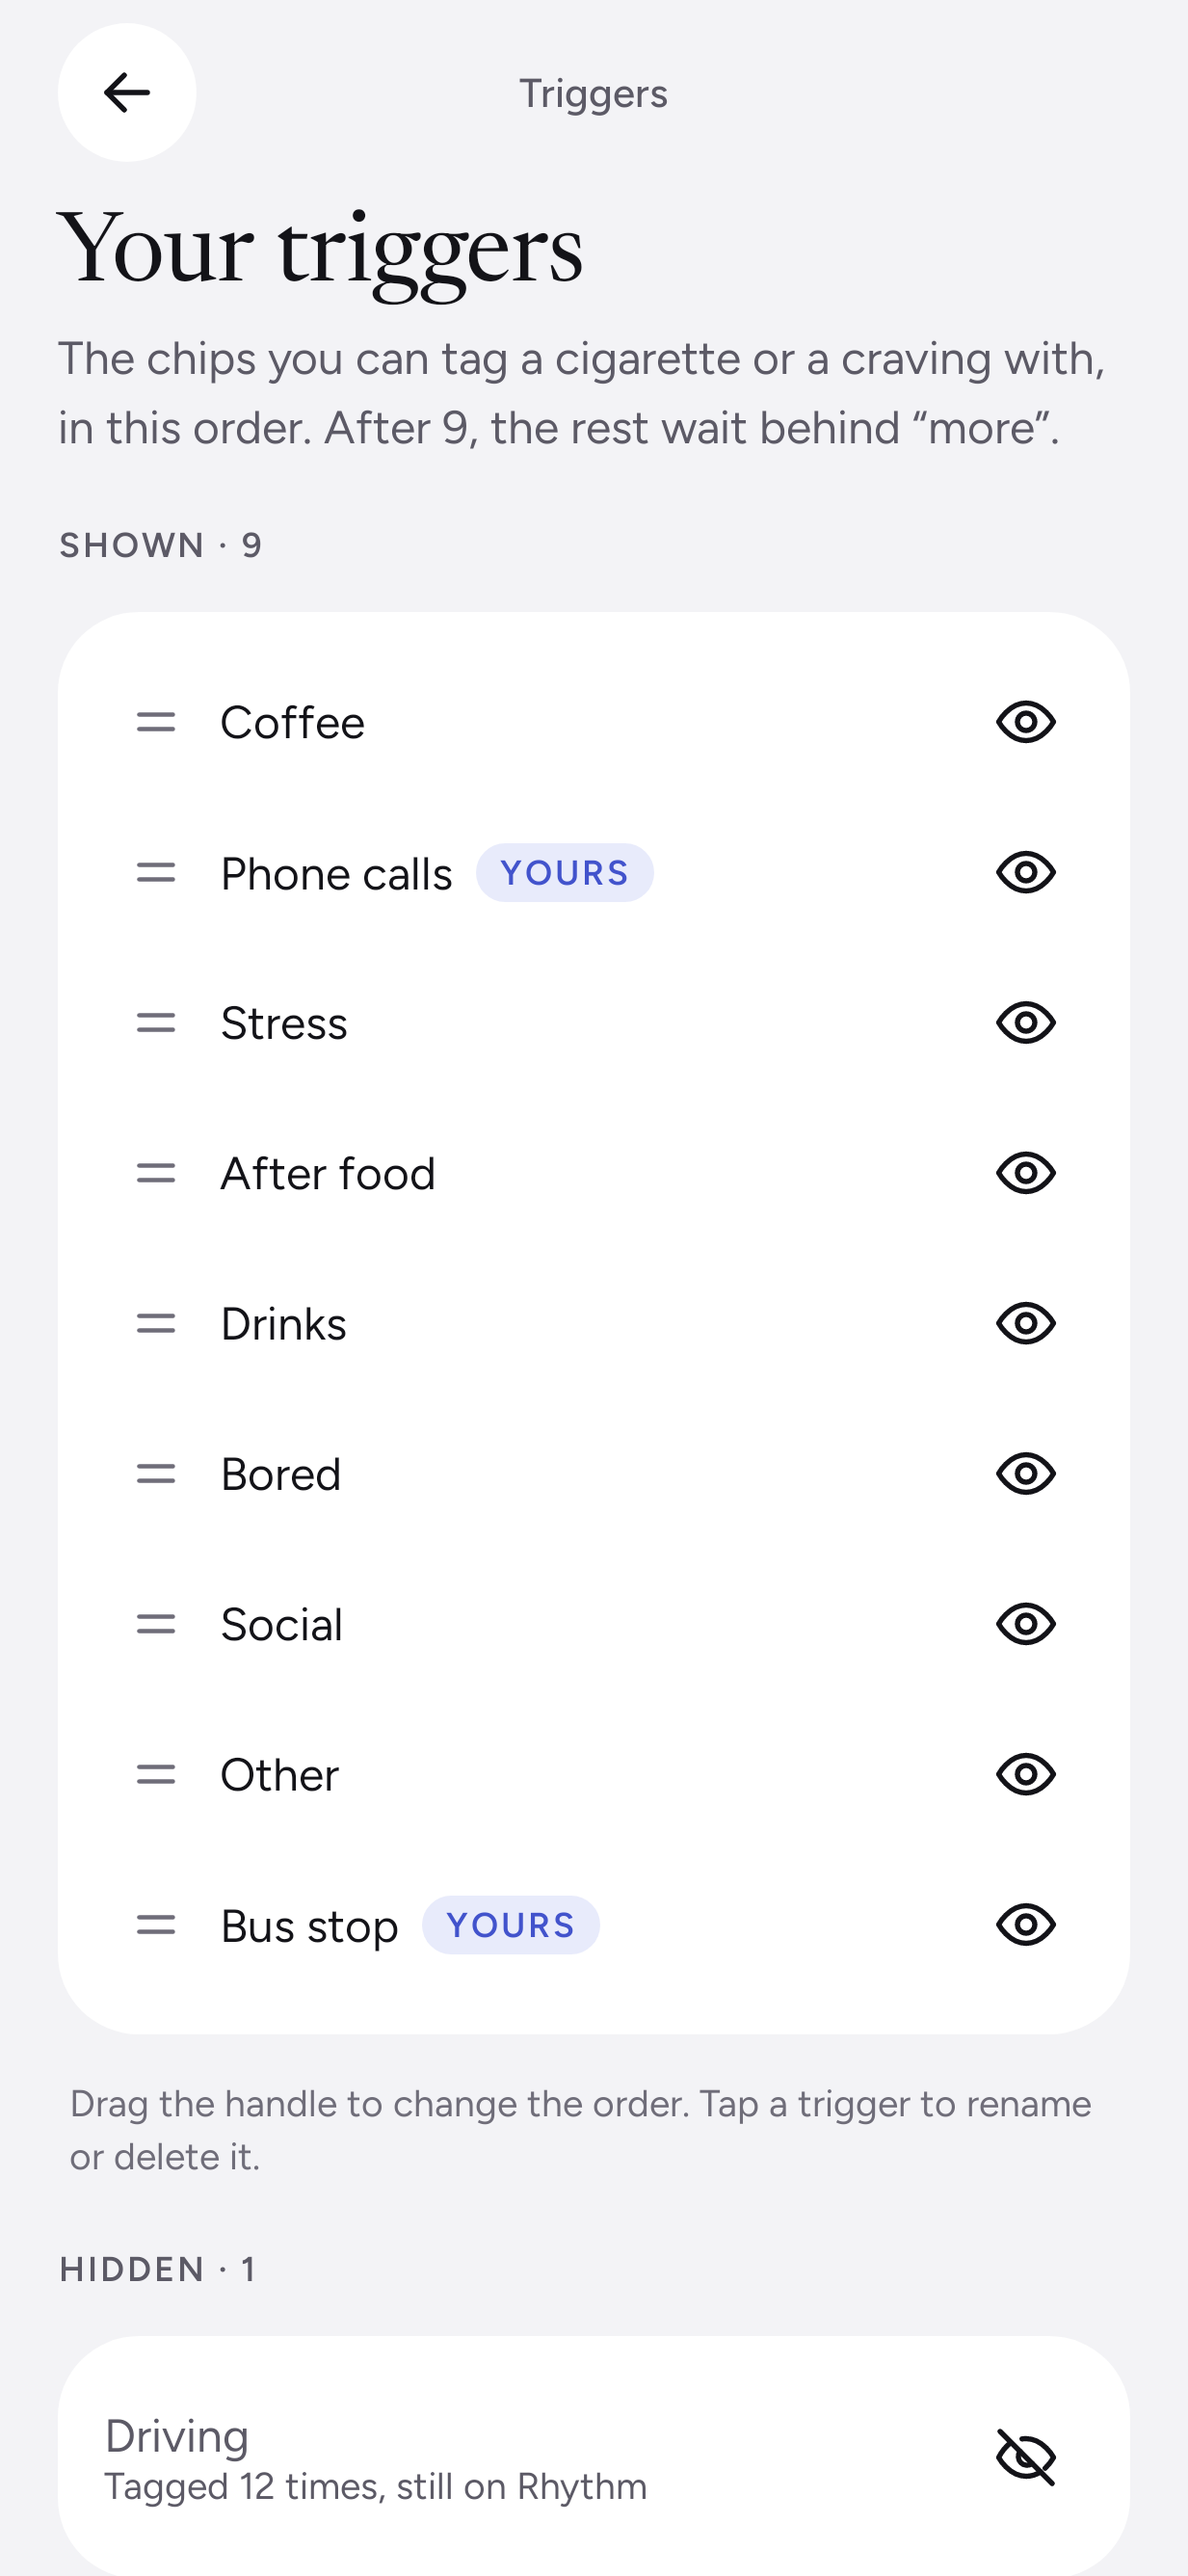
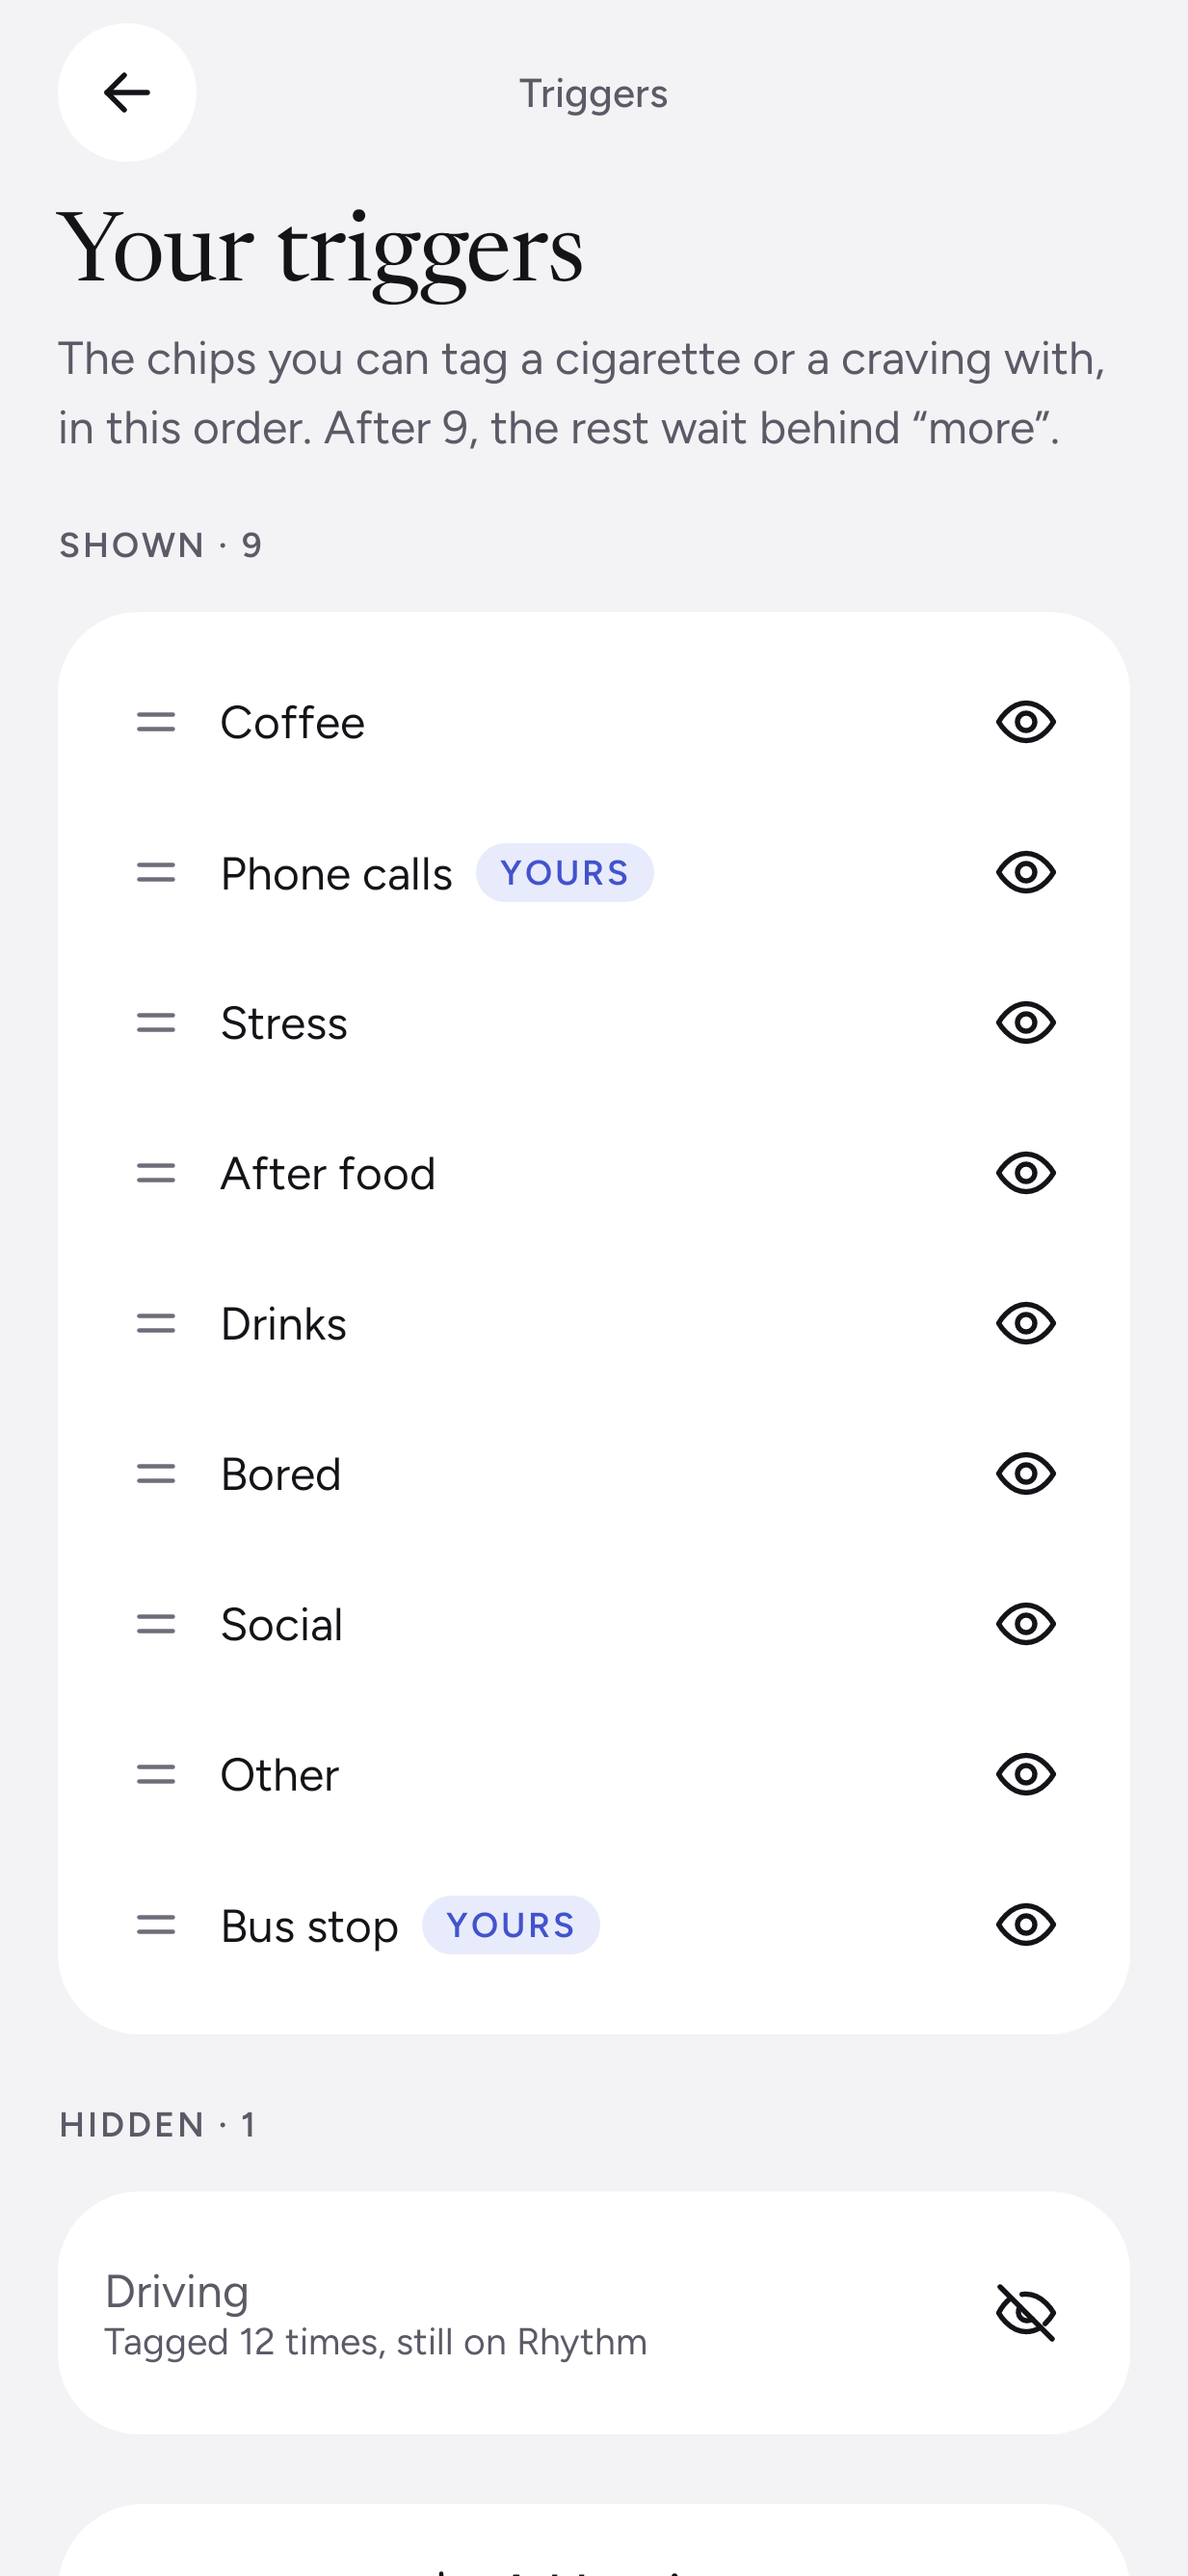
Settings: drop the captions under the Triggers card and the triggers list
Claude-Session: https://claude.ai/code/session_018i9YmtPViAYyBEGPqNTxhS

diff --git a/app/src/main/java/app/exhale/ui/screens/SettingsScreen.kt b/app/src/main/java/app/exhale/ui/screens/SettingsScreen.kt
@@ -272,7 +272,6 @@ private fun SettingsMain(
                     sub = shownTriggers.joinToString(", ") { it.label }.ifEmpty { "None shown" },
                 )
             }
-            Footnote("The chips you can tag a cigarette or a craving with.")
 
             Overline("Money", Modifier.paddingTop())
             ExCard(padding = ExSpace.sm) {

diff --git a/app/src/main/java/app/exhale/ui/screens/TriggerSettings.kt b/app/src/main/java/app/exhale/ui/screens/TriggerSettings.kt
@@ -86,7 +86,6 @@ internal fun TriggersPage(
                     )
                 }
             }
-            Footnote("Drag the handle to change the order. Tap a trigger to rename or delete it.")
         }
         if (hidden.isNotEmpty()) {
             Overline("Hidden · ${hidden.size}", Modifier.padding(top = ExSpace.xs))

diff --git a/docs/SPEC.md b/docs/SPEC.md
@@ -301,8 +301,7 @@ Edits everything set during onboarding; keeps the original plan start. Sections,
   caption shows the plan as counted on screen: "This week 10 a day, next week 9." ("Holding at 14 a
   day." for Hold steady), plus "That start is above your usual 16." when the start is above Before Exhale.
 - **Triggers**, one card: **Your triggers** with how many are shown ("9 shown") and their names on a
-  second line cut short with "…", opening the Triggers screen (§3.11). Caption: "The chips you can tag a
-  cigarette or a craving with."
+  second line cut short with "…", opening the Triggers screen (§3.11).
 - **Money**, one card: **A pack** ("20 for 10.00 $") and **Saving for** (the amount on the right, the
   goal name on a second line that is cut short when long, so the amount always shows whole). Each opens
   its own screen.
@@ -362,8 +361,7 @@ People can name their own triggers and shape the list. Rules are in §4 Triggers
   was hidden).
 - **Settings → Triggers** (applies at once, no Save): "Your triggers", "Shown · 9" in a card where
   each row has a drag handle (drag to reorder; screen readers get Move up / Move down), the name, a
-  "Yours" sky badge on the user's own, and an eye that hides it. "Drag the handle to change the order.
-  Tap a trigger to rename or delete it." Then "Hidden · 1" with dimmed rows ("Tagged 12 times, still on
+  "Yours" sky badge on the user's own, and an eye that hides it. Then "Hidden · 1" with dimmed rows ("Tagged 12 times, still on
   Rhythm") and an eye-off that shows one again, and a Secondary **Add a trigger** button.
 - **One trigger**: the user's own ("Your trigger"): a Name field (20 at most), "Tagged 14 times. Tags keep
   up with the new name.", saved on the way back like Settings' other pages ("Saved", or "The name stays
